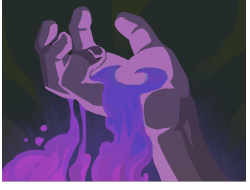
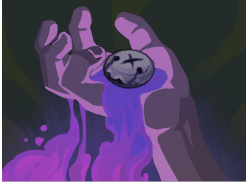
Add Black Sand card. Add relic art.

Changed region(s): [[0.392, 0.2368, 0.644, 0.4737]]

diff --git a/src/main/java/tisHermitBooster/cards/BlackSand.java b/src/main/java/tisHermitBooster/cards/BlackSand.java
@@ -1,0 +1,70 @@
+package tisHermitBooster.cards;
+
+import com.megacrit.cardcrawl.actions.common.ApplyPowerAction;
+import com.megacrit.cardcrawl.actions.common.GainBlockAction;
+import com.megacrit.cardcrawl.characters.AbstractPlayer;
+import com.megacrit.cardcrawl.dungeons.AbstractDungeon;
+import com.megacrit.cardcrawl.monsters.AbstractMonster;
+import com.megacrit.cardcrawl.powers.DexterityPower;
+import com.megacrit.cardcrawl.powers.PlatedArmorPower;
+import hermit.characters.hermit;
+import spireTogether.network.P2P.P2PPlayer;
+
+import static tisHermitBooster.tisHermitBoosterMod.cardPath;
+import static tisHermitBooster.tisHermitBoosterMod.makeID;
+
+public class BlackSand extends AbstractHermitMultiplayerCard {
+    public static final String ID = makeID(BlackSand.class.getSimpleName());
+    public static final String IMG = cardPath("skill/BlackSand.png");
+    private static final CardRarity RARITY;
+    private static final CardTarget TARGET;
+    private static final CardType TYPE;
+    public static final CardColor COLOR;
+    private static final int COST = 2;
+
+    static {
+        RARITY = CardRarity.RARE;
+        TARGET = CardTarget.SELF;
+        TYPE = CardType.SKILL;
+        COLOR = hermit.Enums.COLOR_YELLOW;
+    }
+
+    public BlackSand() {
+        super(ID, IMG, COST, TYPE, COLOR, RARITY, TARGET);
+        this.exhaust = true;
+        this.isEthereal = true;
+        this.baseBlock = 0;
+    }
+
+    public void use(AbstractPlayer p, AbstractMonster m) {
+        if(this.upgraded){
+            this.addToTop(new GainBlockAction(p, p, this.block));
+        }
+        for(P2PPlayer np : this.getPlayers(true, true)) {
+            np.addBlock(this.block);
+        }
+    }
+
+    public void applyPowers() {
+        AbstractPlayer p =  AbstractDungeon.player;
+        this.baseBlock = p.maxHealth - p.currentHealth;
+        super.applyPowers();
+
+        this.rawDescription = this.upgraded ? cardStrings.UPGRADE_DESCRIPTION : cardStrings.DESCRIPTION;
+        this.rawDescription = this.rawDescription + cardStrings.EXTENDED_DESCRIPTION[0];
+        this.initializeDescription();
+    }
+
+    public void onMoveToDiscard() {
+        this.rawDescription = this.upgraded ? cardStrings.UPGRADE_DESCRIPTION : cardStrings.DESCRIPTION;
+        this.initializeDescription();
+    }
+
+    public void upgrade() {
+        if (!this.upgraded) {
+            this.upgradeName();
+            this.rawDescription = cardStrings.UPGRADE_DESCRIPTION;
+            this.initializeDescription();
+        }
+    }
+}

diff --git a/src/main/java/tisHermitBooster/relics/WantedPoster.java b/src/main/java/tisHermitBooster/relics/WantedPoster.java
@@ -1,12 +1,10 @@
 package tisHermitBooster.relics;
 
-import basemod.helpers.RelicType;
 import com.badlogic.gdx.graphics.Texture;
 import com.megacrit.cardcrawl.dungeons.AbstractDungeon;
 import com.megacrit.cardcrawl.powers.DexterityPower;
 import com.megacrit.cardcrawl.powers.FocusPower;
 import com.megacrit.cardcrawl.powers.StrengthPower;
-import com.megacrit.cardcrawl.relics.AbstractRelic;
 import spireTogether.network.P2P.P2PPlayer;
 import spireTogether.relics.CustomMultiplayerRelic;
 import tisHermitBooster.util.TextureLoader;
@@ -16,11 +14,11 @@ import static tisHermitBooster.tisHermitBoosterMod.relicPath;
 
 public class WantedPoster extends CustomMultiplayerRelic {
     public static final String ID = makeID("WantedPoster");
-    private static final Texture IMG = TextureLoader.getTexture(relicPath("example.png"));
-    private static final Texture OUTLINE = TextureLoader.getTexture(relicPath("example.png"));
+    private static final Texture IMG = TextureLoader.getTexture(relicPath("WantedPoster.png"));
+    private static final Texture OUTLINE = TextureLoader.getTexture(relicPath("WantedPosterOutline.png"));
 
     public WantedPoster() {
-        super(ID, IMG, OUTLINE, AbstractRelic.RelicTier.SHOP, LandingSound.FLAT);
+        super(ID, IMG, OUTLINE, RelicTier.SHOP, LandingSound.FLAT);
     }
 
     public String getUpdatedDescription() {

diff --git a/src/main/java/tisHermitBooster/cards/FrontierJustice.java b/src/main/java/tisHermitBooster/cards/FrontierJustice.java
@@ -26,10 +26,10 @@ public class FrontierJustice extends AbstractHermitMultiplayerCard {
     private static final CardTarget TARGET;
     private static final CardType TYPE;
     public static final CardColor COLOR;
-    private static final int COST = 2;
+    private static final int COST = 1;
 
     static {
-        RARITY = CardRarity.UNCOMMON;
+        RARITY = CardRarity.RARE;
         TARGET = CardTarget.SELF;
         TYPE = CardType.POWER;
         COLOR = hermit.Enums.COLOR_YELLOW;
@@ -45,8 +45,9 @@ public class FrontierJustice extends AbstractHermitMultiplayerCard {
 
     public void upgrade() {
         if (!this.upgraded) {
-            this.upgradeBaseCost(1);
+            this.isInnate = true;
             this.upgradeName();
+            this.rawDescription = cardStrings.UPGRADE_DESCRIPTION;
             this.initializeDescription();
         }
     }

diff --git a/src/main/java/tisHermitBooster/relics/ElevenGallonHat.java b/src/main/java/tisHermitBooster/relics/ElevenGallonHat.java
@@ -15,8 +15,8 @@ import static tisHermitBooster.tisHermitBoosterMod.relicPath;
 
 public class ElevenGallonHat extends CustomMultiplayerRelic {
     public static final String ID = makeID("ElevenGallonHat");
-    private static final Texture IMG = TextureLoader.getTexture(relicPath("example.png"));
-    private static final Texture OUTLINE = TextureLoader.getTexture(relicPath("example.png"));
+    private static final Texture IMG = TextureLoader.getTexture(relicPath("ElevenGallonHat.png"));
+    private static final Texture OUTLINE = TextureLoader.getTexture(relicPath("ElevenGallonHatOutline.png"));
     private boolean usedThisTurn = false;
 
     public ElevenGallonHat() {

diff --git a/src/main/java/tisHermitBooster/cards/LoneRanger.java b/src/main/java/tisHermitBooster/cards/LoneRanger.java
@@ -30,7 +30,7 @@ public class LoneRanger extends AbstractHermitMultiplayerCard {
     private static final CardType TYPE;
     public static final CardColor COLOR;
     private static final int COST = 2;
-    private static final int MAGIC = 3;
+    private static final int MAGIC = 4;
     private static final int UPGRADE_MAGIC = 2;
 
     static {
